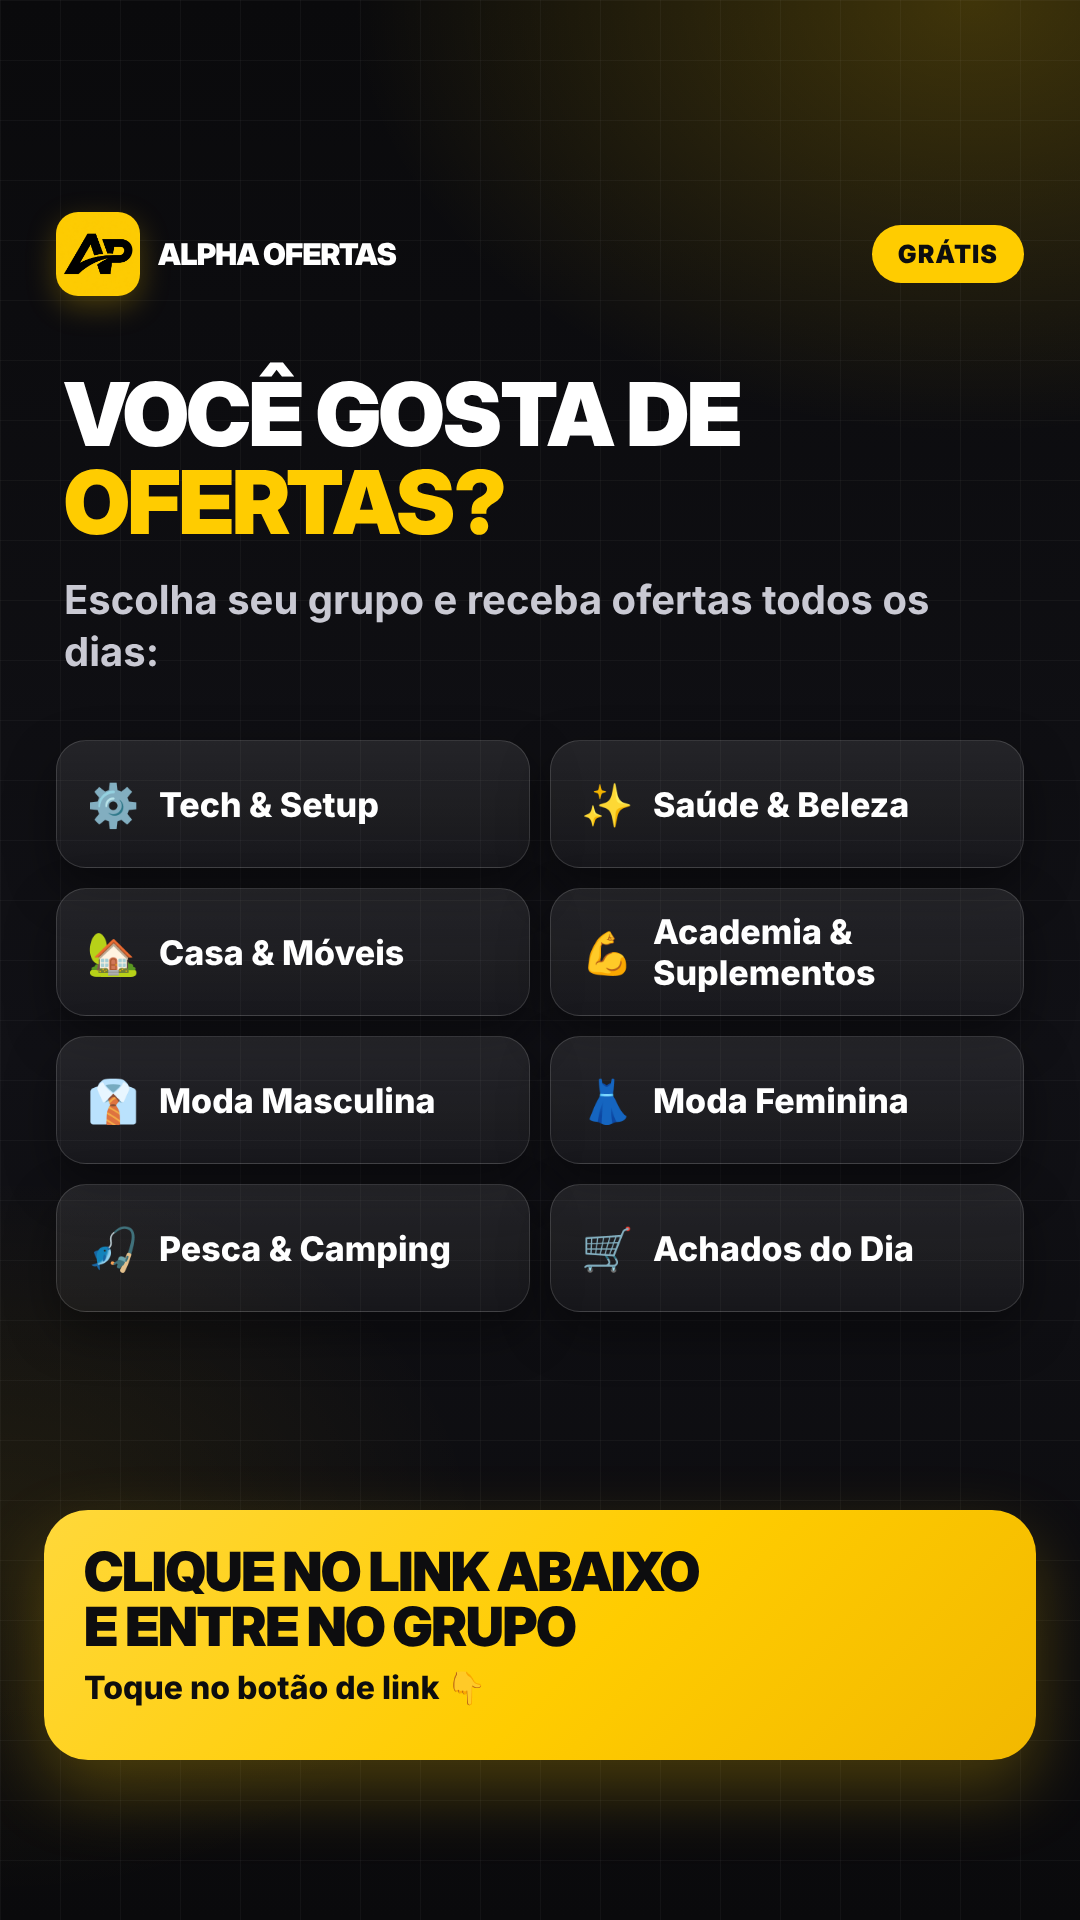
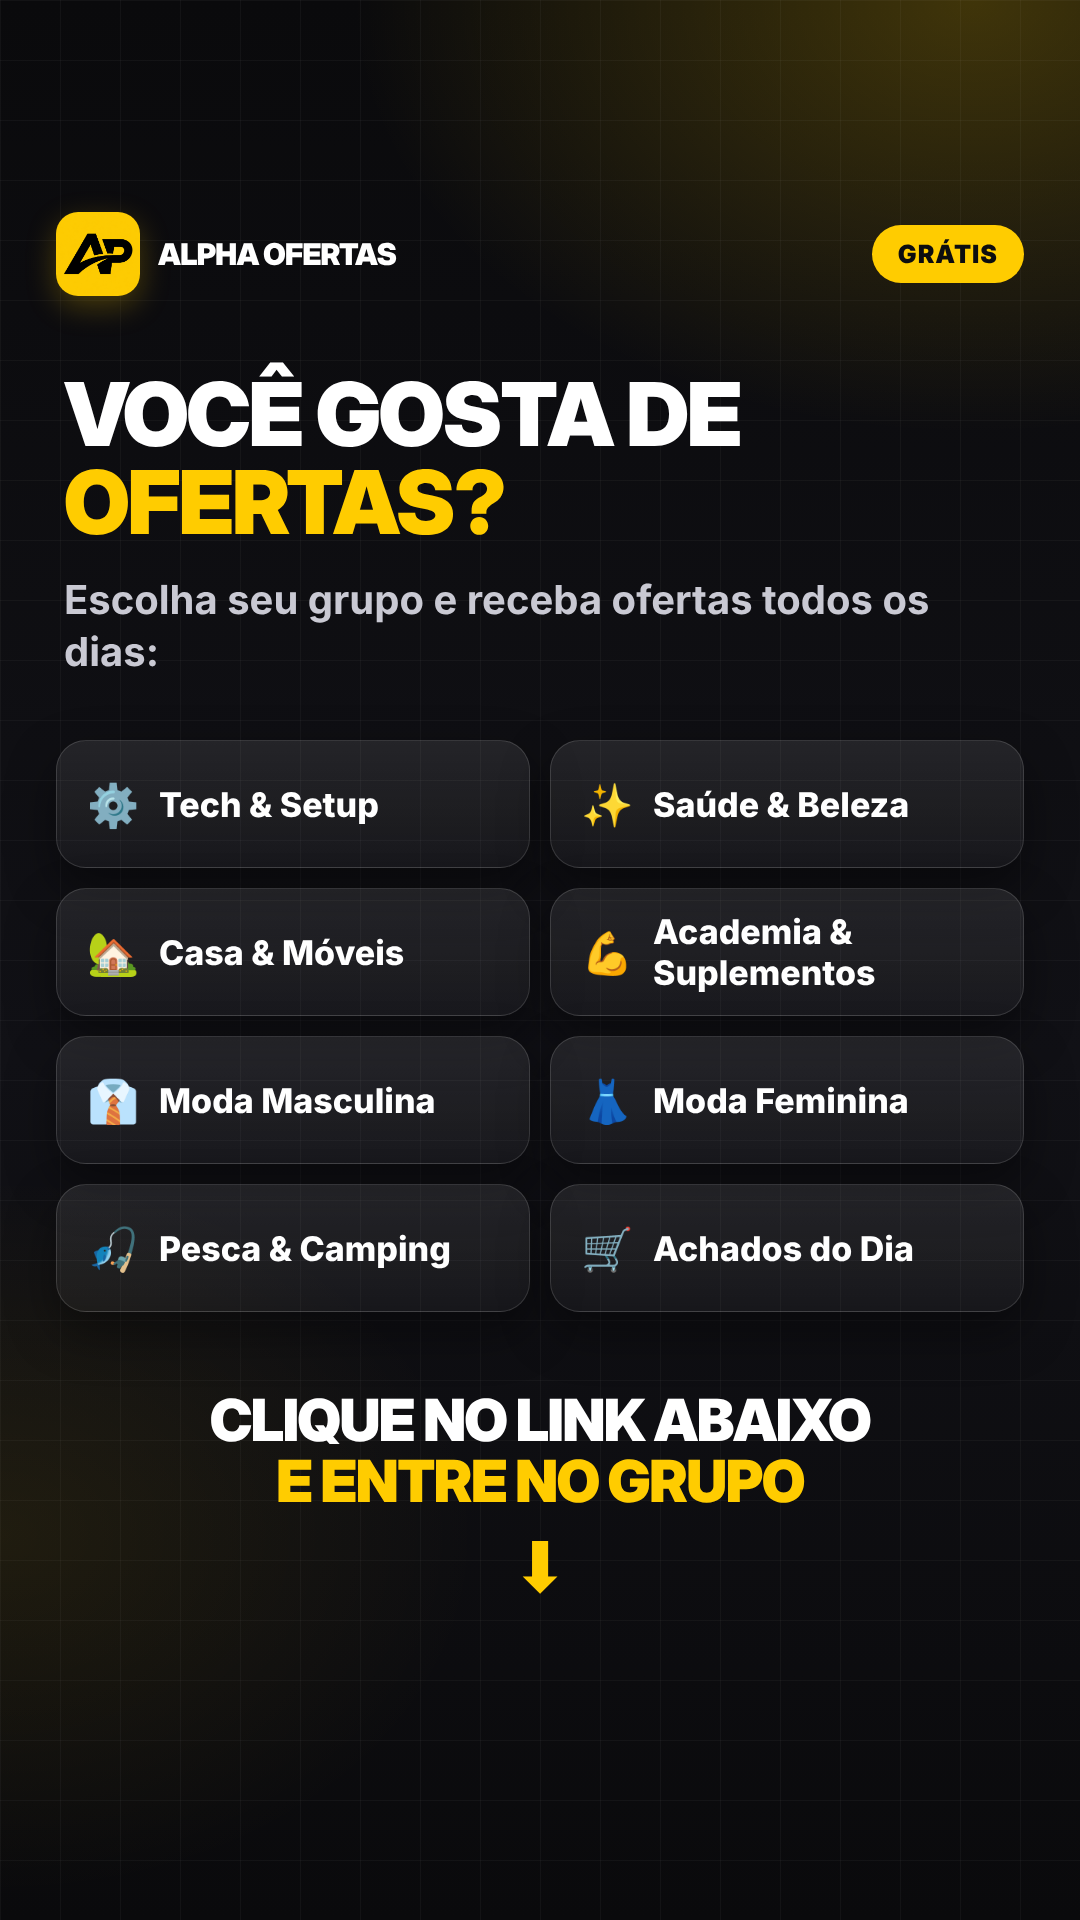
Story dos grupos: área livre para o link
Claude-Session: https://claude.ai/code/session_01Tf5FmHwZKYtvbVrHBSy4Wu

Changed region(s): [[0.0306, 0.7188, 0.9778, 0.9375]]

diff --git a/automation/render_grupos.py b/automation/render_grupos.py
@@ -34,8 +34,7 @@ def story():
 <div style="position:absolute;left:64px;right:64px;top:370px"><div class="d" style="font-size:88px;line-height:1.0;text-transform:uppercase">Você gosta de<br><span class="y">ofertas?</span></div>
 <div style="margin-top:28px;font-size:40px;font-weight:700;color:#C9C9D3;line-height:1.3">Escolha seu grupo e receba ofertas todos os dias:</div></div>
 {cards(740,34,128,20)}
-<div style="position:absolute;left:44px;right:44px;top:1510px;height:250px;border-radius:44px;background:linear-gradient(135deg,#FFD83A,#FFCC00 55%,#F2B800);color:#0D0D0F;padding:34px 40px;box-shadow:0 30px 70px rgba(255,204,0,.25)">
-<div class="d" style="font-size:54px;line-height:1.02;text-transform:uppercase">Clique no link abaixo<br>e entre no grupo</div><div style="margin-top:14px;font-weight:800;font-size:32px">Toque no botão de link 👇</div></div>
+<div style="position:absolute;left:64px;right:64px;top:1390px;text-align:center"><div class="d" style="font-size:58px;line-height:1.05;text-transform:uppercase">Clique no link abaixo<br><span class="y">e entre no grupo</span></div><div style="margin-top:20px;font-size:70px;line-height:1" class="y">⬇</div></div>
 </div></body></html>'''
 async def main():
     async with async_playwright() as p:
